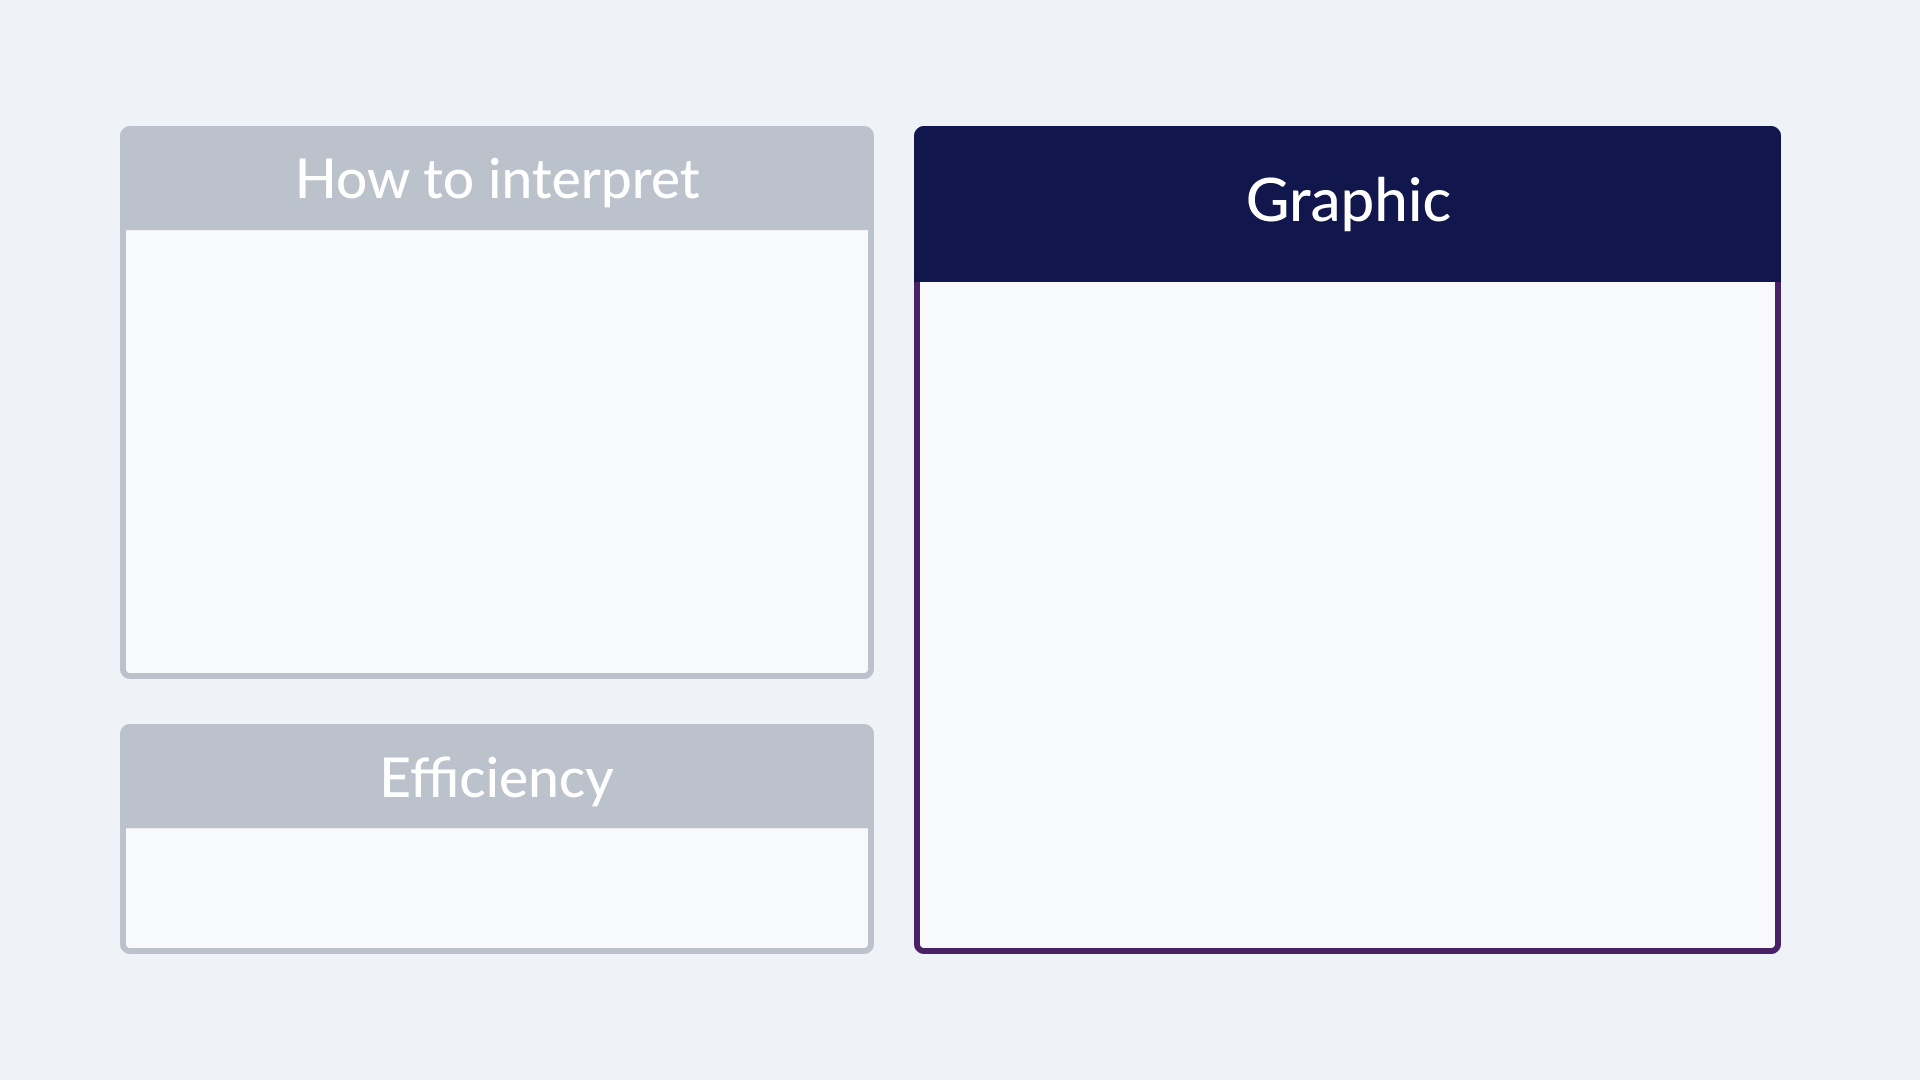
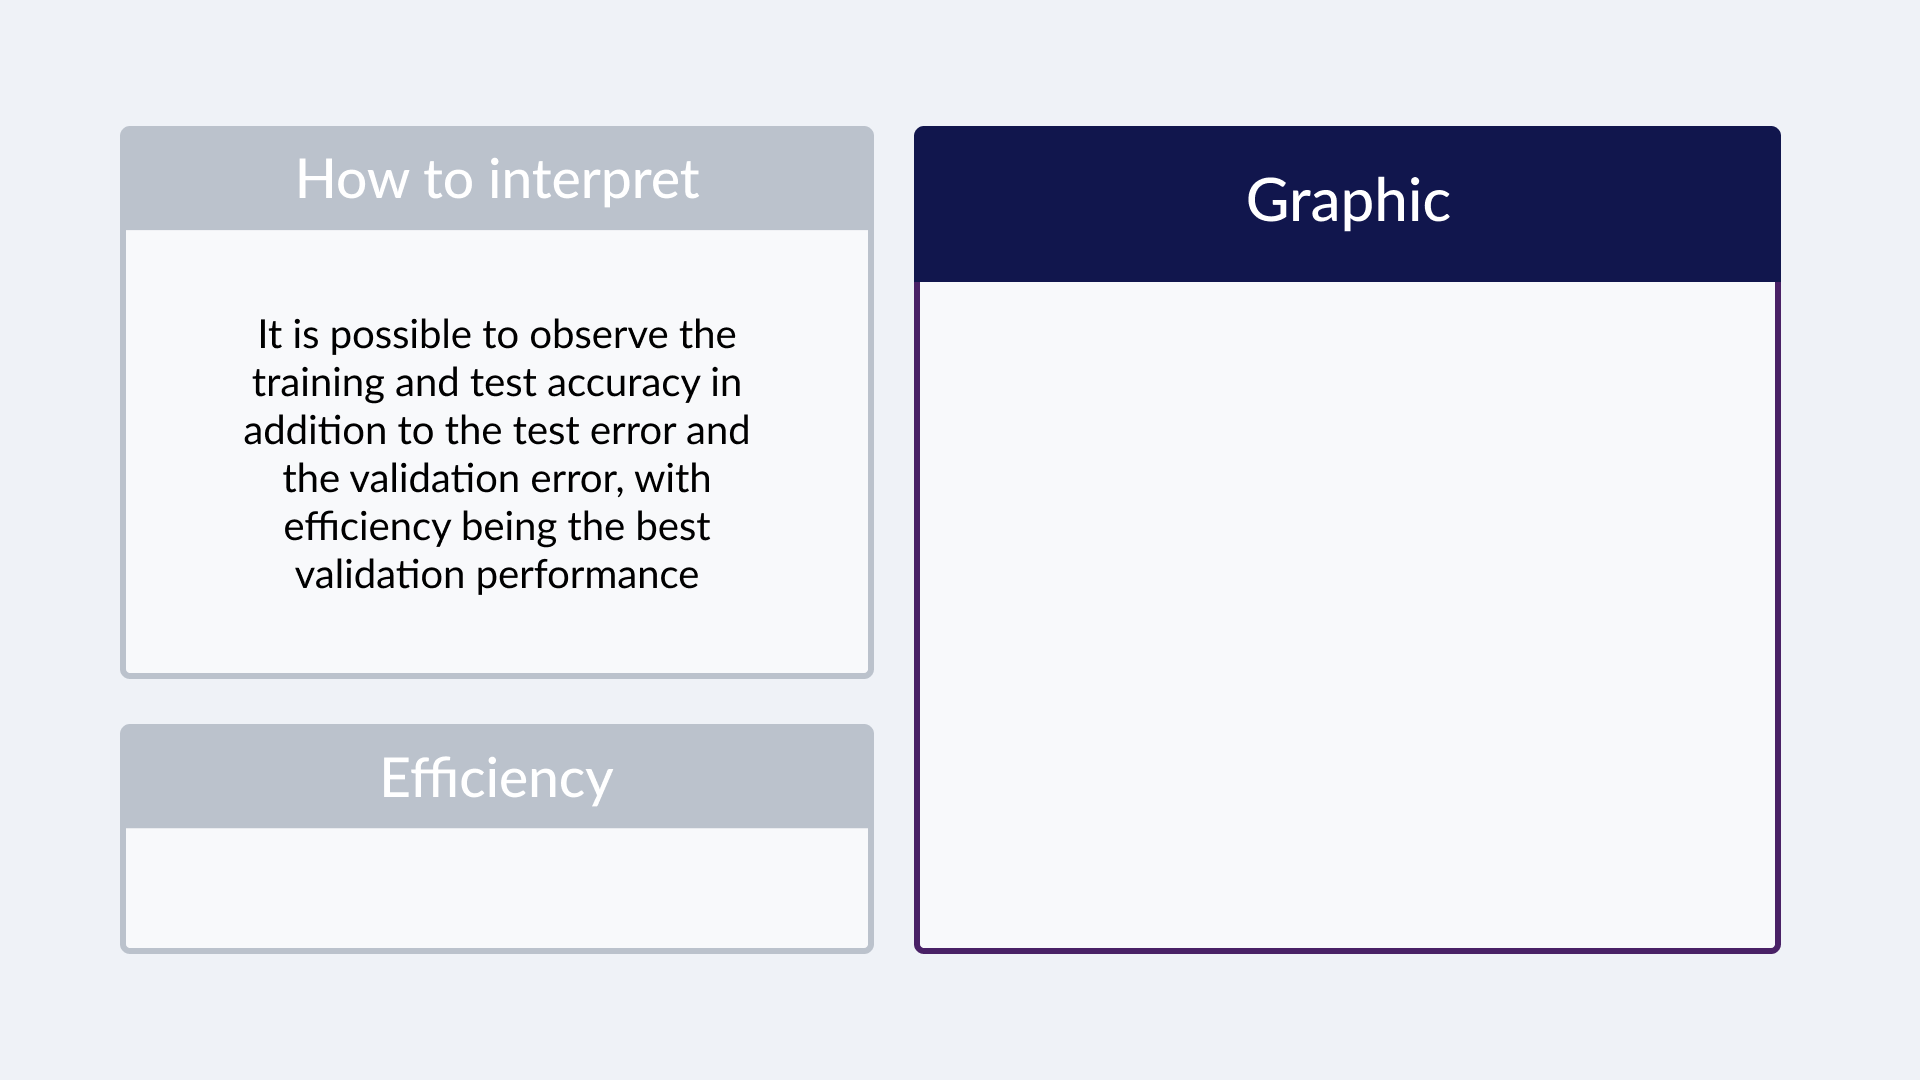
info about results add

Changed region(s): [[0.125, 0.3056, 0.4062, 0.55]]

diff --git a/main.py b/main.py
@@ -8,7 +8,7 @@ class ECG(Toplevel):
         Toplevel.__init__(self)
         self._frame = None
         self.switch_frame(Home)
-
+ 
     def switch_frame(self, frame_class):
         # Destroys current frame and replaces it with a new one
         new_frame = frame_class(self)
@@ -39,8 +39,16 @@ class ECG(Toplevel):
         Label(self.window, image=self.b_RML).pack()
 
         # Label do gráfico
+
         self.my_label = Label(self.window, image = self.my_img, bg="white")
         self.my_label.place(x= w*1000/1920, y= h*380/1080)
+
+        #Label acc
+
+        eff_text = 'The efficiency is ' + str(acc) + '%'
+
+        self.label_eff = Label(self.window, text=eff_text, bg="#F8F9FB", font="ArialBlack")
+        self.label_eff.place(x=w * 380 / 1920, y=h * 860 / 1080)
 
         print(acc)
 
@@ -51,13 +59,13 @@ class ECG(Toplevel):
             self.plot_graf(self.img_ad,self.mean_res)
         elif Frame.NB.get() == 1:
             self.img_ad,self.mean_res = nayve_bayes(path)
-            self.plot_graf(self.img_ad)
+            self.plot_graf(self.img_ad,self.mean_res)
         elif Frame.KNN.get() == 1:
             self.img_ad,self.mean_res = KNN(path)
-            self.plot_graf(self.img_ad)
+            self.plot_graf(self.img_ad,self.mean_res)
         elif Frame.VFI.get() == 1:
             self.img_ad,self.mean_res = Vfi(path)
-            self.plot_graf(self.img_ad)
+            self.plot_graf(self.img_ad,self.mean_res)
 
 
     def trainDL(self, train_button2):

diff --git a/mod.py b/mod.py
@@ -46,7 +46,7 @@ def read_data_cv(address):
 
 
 def save_score_ml(result, name):
-    mean_res = 100 * around(result.mean(), decimals=4)
+    mean_res = 100 * around(result.mean(), decimals=3)
     plt.plot(arange(len(result)), result, c=random.rand(3,), marker='o')
     plt.xlabel('K - Fold')
     plt.ylabel('Scores')
@@ -244,13 +244,15 @@ def HsiehCNN(address):
 
     model.compile(optimizer='adam', loss='sparse_categorical_crossentropy', metrics=['accuracy'])
 
+    steps_epoch = len (x_train)//128
+    steps_valid = len(x_test)//128
     device_name = tf.test.gpu_device_name()
     if device_name != '':
         with  tf.device(device_name):
-            history = model.fit(x_train, y_train, batch_size=128, epochs=20, steps_per_epoch=150,
-                                validation_data=(x_test, y_test))
+            history = model.fit(x_train, y_train, batch_size=128, epochs=10, steps_per_epoch=steps_epoch,
+                                validation_data=(x_test, y_test),validation_steps = steps_valid)
             return save_score_dl(history)
     else:
-        history = model.fit(x_train, y_train, batch_size=128, epochs=20, steps_per_epoch=150,
-                            validation_data=(x_test, y_test))
+        history = model.fit(x_train, y_train, batch_size=128, epochs=10, steps_per_epoch=steps_epoch,
+                            validation_data=(x_test, y_test),validation_steps = steps_valid)
         return save_score_dl(history)
